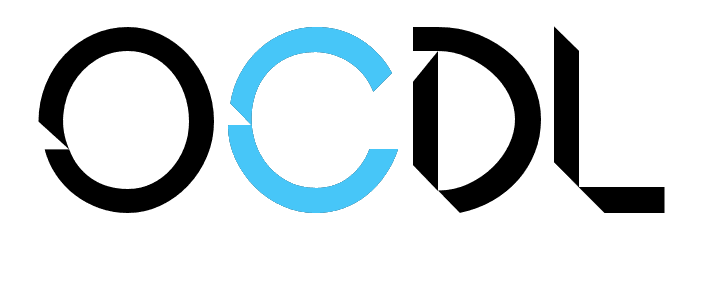
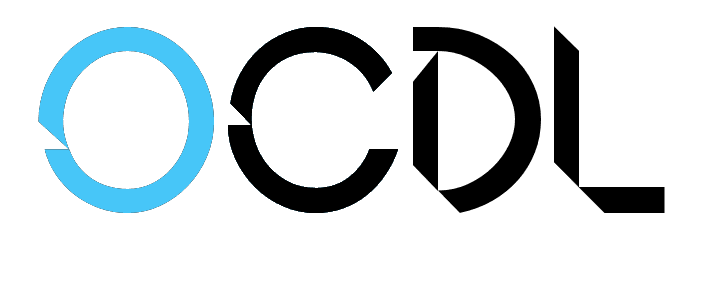
Brand Update

Changed region(s): [[0.0299, 0.0938, 0.5684, 0.75]]

diff --git a/ocdl/cx/src/main/resources/static/views/Donuts3D.js b/ocdl/cx/src/main/resources/static/views/Donuts3D.js
@@ -1,0 +1,123 @@
+!function(){
+    var Donut3D={};
+
+    function pieTop(d, rx, ry, ir ){
+        if(d.endAngle - d.startAngle == 0 ) return "M 0 0";
+        var sx = rx*Math.cos(d.startAngle),
+            sy = ry*Math.sin(d.startAngle),
+            ex = rx*Math.cos(d.endAngle),
+            ey = ry*Math.sin(d.endAngle);
+
+        var ret =[];
+        ret.push("M",sx,sy,"A",rx,ry,"0",(d.endAngle-d.startAngle > Math.PI? 1: 0),"1",ex,ey,"L",ir*ex,ir*ey);
+        ret.push("A",ir*rx,ir*ry,"0",(d.endAngle-d.startAngle > Math.PI? 1: 0), "0",ir*sx,ir*sy,"z");
+        return ret.join(" ");
+    }
+
+    function pieOuter(d, rx, ry, h ){
+        var startAngle = (d.startAngle > Math.PI ? Math.PI : d.startAngle);
+        var endAngle = (d.endAngle > Math.PI ? Math.PI : d.endAngle);
+
+        var sx = rx*Math.cos(startAngle),
+            sy = ry*Math.sin(startAngle),
+            ex = rx*Math.cos(endAngle),
+            ey = ry*Math.sin(endAngle);
+
+        var ret =[];
+        ret.push("M",sx,h+sy,"A",rx,ry,"0 0 1",ex,h+ey,"L",ex,ey,"A",rx,ry,"0 0 0",sx,sy,"z");
+        return ret.join(" ");
+    }
+
+    function pieInner(d, rx, ry, h, ir ){
+        var startAngle = (d.startAngle < Math.PI ? Math.PI : d.startAngle);
+        var endAngle = (d.endAngle < Math.PI ? Math.PI : d.endAngle);
+
+        var sx = ir*rx*Math.cos(startAngle),
+            sy = ir*ry*Math.sin(startAngle),
+            ex = ir*rx*Math.cos(endAngle),
+            ey = ir*ry*Math.sin(endAngle);
+
+        var ret =[];
+        ret.push("M",sx, sy,"A",ir*rx,ir*ry,"0 0 1",ex,ey, "L",ex,h+ey,"A",ir*rx, ir*ry,"0 0 0",sx,h+sy,"z");
+        return ret.join(" ");
+    }
+
+    function getPercent(d){
+        return (d.endAngle-d.startAngle > 0.2 ?
+            Math.round(1000*(d.endAngle-d.startAngle)/(Math.PI*2))/10+'%' : '');
+    }
+
+    Donut3D.transition = function(id, data, rx, ry, h, ir){
+        function arcTweenInner(a) {
+            var i = d3.interpolate(this._current, a);
+            this._current = i(0);
+            return function(t) { return pieInner(i(t), rx+0.5, ry+0.5, h, ir);  };
+        }
+        function arcTweenTop(a) {
+            var i = d3.interpolate(this._current, a);
+            this._current = i(0);
+            return function(t) { return pieTop(i(t), rx, ry, ir);  };
+        }
+        function arcTweenOuter(a) {
+            var i = d3.interpolate(this._current, a);
+            this._current = i(0);
+            return function(t) { return pieOuter(i(t), rx-.5, ry-.5, h);  };
+        }
+        function textTweenX(a) {
+            var i = d3.interpolate(this._current, a);
+            this._current = i(0);
+            return function(t) { return 0.6*rx*Math.cos(0.5*(i(t).startAngle+i(t).endAngle));  };
+        }
+        function textTweenY(a) {
+            var i = d3.interpolate(this._current, a);
+            this._current = i(0);
+            return function(t) { return 0.6*rx*Math.sin(0.5*(i(t).startAngle+i(t).endAngle));  };
+        }
+
+        var _data = d3.layout.pie().sort(null).value(function(d) {return d.value;})(data);
+
+        d3.select("#"+id).selectAll(".innerSlice").data(_data)
+            .transition().duration(750).attrTween("d", arcTweenInner);
+
+        d3.select("#"+id).selectAll(".topSlice").data(_data)
+            .transition().duration(750).attrTween("d", arcTweenTop);
+
+        d3.select("#"+id).selectAll(".outerSlice").data(_data)
+            .transition().duration(750).attrTween("d", arcTweenOuter);
+
+        d3.select("#"+id).selectAll(".percent").data(_data).transition().duration(750)
+            .attrTween("x",textTweenX).attrTween("y",textTweenY).text(getPercent);
+    }
+
+    Donut3D.draw=function(id, data, x /*center x*/, y/*center y*/,
+                          rx/*radius x*/, ry/*radius y*/, h/*height*/, ir/*inner radius*/){
+
+        var _data = d3.layout.pie().sort(null).value(function(d) {return d.value;})(data);
+
+        var slices = d3.select("#"+id).append("g").attr("transform", "translate(" + x + "," + y + ")")
+            .attr("class", "slices");
+
+        slices.selectAll(".innerSlice").data(_data).enter().append("path").attr("class", "innerSlice")
+            .style("fill", function(d) { return d3.hsl(d.data.color).darker(0.7); })
+            .attr("d",function(d){ return pieInner(d, rx+0.5,ry+0.5, h, ir);})
+            .each(function(d){this._current=d;});
+
+        slices.selectAll(".topSlice").data(_data).enter().append("path").attr("class", "topSlice")
+            .style("fill", function(d) { return d.data.color; })
+            .style("stroke", function(d) { return d.data.color; })
+            .attr("d",function(d){ return pieTop(d, rx, ry, ir);})
+            .each(function(d){this._current=d;});
+
+        slices.selectAll(".outerSlice").data(_data).enter().append("path").attr("class", "outerSlice")
+            .style("fill", function(d) { return d3.hsl(d.data.color).darker(0.7); })
+            .attr("d",function(d){ return pieOuter(d, rx-.5,ry-.5, h);})
+            .each(function(d){this._current=d;});
+
+        slices.selectAll(".percent").data(_data).enter().append("text").attr("class", "percent")
+            .attr("x",function(d){ return 0.6*rx*Math.cos(0.5*(d.startAngle+d.endAngle));})
+            .attr("y",function(d){ return 0.6*ry*Math.sin(0.5*(d.startAngle+d.endAngle));})
+            .text(getPercent).each(function(d){this._current=d;});
+    }
+
+    this.Donut3D = Donut3D;
+}();

diff --git a/ocdl/cx/src/main/resources/static/views/approvalCenter.html b/ocdl/cx/src/main/resources/static/views/approvalCenter.html
@@ -101,7 +101,7 @@
                 <span class="icon icon-bar"></span>
                 <span class="icon icon-bar"></span>
             </button>
-            <img href="#" alt="OCDL" class="navbar-brand" src="../assets2/images/Brand3.png" />
+            <img href="#" alt="OCDL" class="navbar-brand" src="../assets2/images/Brand4.png" />
             <label id="projectName" style="color: black; margin-top: 30px; margin-left: 20px;"></label>
         </div>
         <div class="collapse navbar-collapse">

diff --git a/ocdl/cx/src/main/resources/static/views/configuration.html b/ocdl/cx/src/main/resources/static/views/configuration.html
@@ -34,7 +34,7 @@
                 <span class="icon icon-bar"></span>
                 <span class="icon icon-bar"></span>
             </button>
-            <img href="#" alt="OCDL" class="navbar-brand" src="../assets2/images/Brand3.png" />
+            <img href="#" alt="OCDL" class="navbar-brand" src="../assets2/images/Brand4.png" />
             <label id="projectName" style="color: black; margin-top: 30px; margin-left: 20px;"></label>
         </div>
         <div class="collapse navbar-collapse">

diff --git a/ocdl/cx/src/main/resources/static/index.html b/ocdl/cx/src/main/resources/static/index.html
@@ -52,7 +52,7 @@
 				<span class="icon icon-bar"></span>
 				<span class="icon icon-bar"></span>
 			</button>
-			<img href="#" alt="OCDL" class="navbar-brand" src="assets2/images/Brand3.png" />
+			<img href="#" alt="OCDL" class="navbar-brand" src="assets2/images/Brand4.png" />
 			<label id="projectName" style="color: black; margin-top: 30px; margin-left: 20px;"></label>
 		</div>
 		<div class="collapse navbar-collapse">
